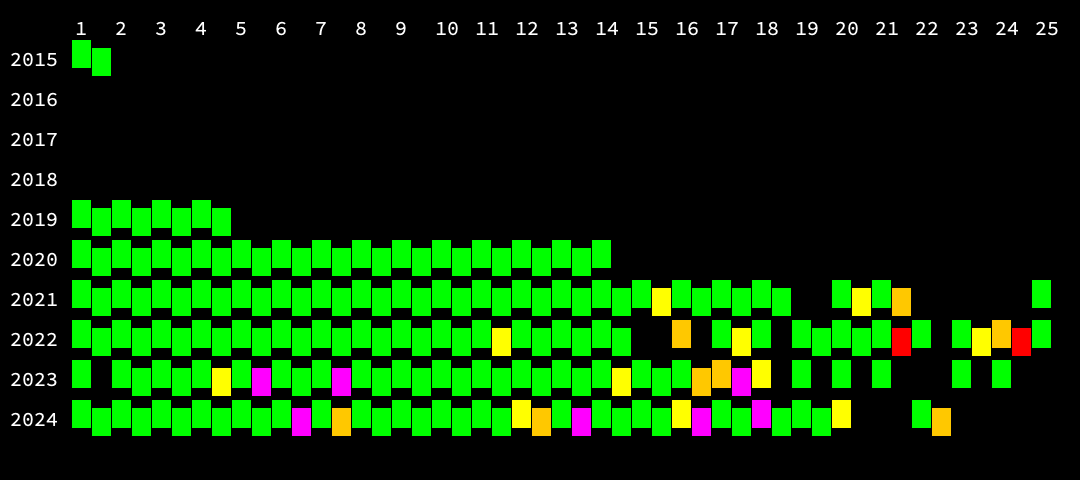
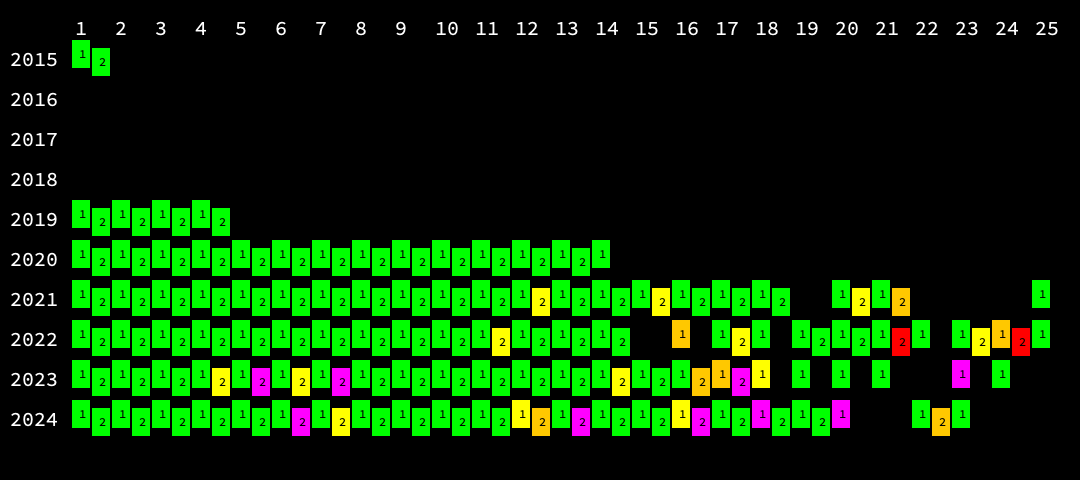
More updates on timing and charts.

diff --git a/src/main/java/com/simongarton/adventofcode/AdventOfCode.java b/src/main/java/com/simongarton/adventofcode/AdventOfCode.java
@@ -236,7 +236,7 @@ public class AdventOfCode {
 //        this.challenges.add(new Year2022Day21()); // slow part 2 18 seconds
         this.challenges.add(new Year2022Day22());
         this.challenges.add(new Year2022Day23());
-        this.challenges.add(new Year2022Day24()); // slow part 2 15 seconds
+//        this.challenges.add(new Year2022Day24()); // slow part 2 15 seconds
         this.challenges.add(new Year2022Day25());
     }
 
@@ -245,9 +245,9 @@ public class AdventOfCode {
         this.challenges.add(new Year2023Day2());
         this.challenges.add(new Year2023Day3());
         this.challenges.add(new Year2023Day4());
-        this.challenges.add(new Year2023Day5()); // slow part 2 63 seconds
+//        this.challenges.add(new Year2023Day5()); // slow part 2 63 seconds
         this.challenges.add(new Year2023Day6());
-        this.challenges.add(new Year2023Day7()); // slow part 2 29 seconds
+//        this.challenges.add(new Year2023Day7()); // slow part 2 29 seconds
         this.challenges.add(new Year2023Day8());
         this.challenges.add(new Year2023Day9());
         this.challenges.add(new Year2023Day10());
@@ -257,7 +257,7 @@ public class AdventOfCode {
         this.challenges.add(new Year2023Day14());
         this.challenges.add(new Year2023Day15());
         this.challenges.add(new Year2023Day16());
-        this.challenges.add(new Year2023Day17()); // slow part 2 26 seconds
+//        this.challenges.add(new Year2023Day17()); // slow part 2 26 seconds
         this.challenges.add(new Year2023Day18());
         this.challenges.add(new Year2023Day19());
         this.challenges.add(new Year2023Day20());
@@ -274,23 +274,24 @@ public class AdventOfCode {
         this.challenges.add(new Year2024Day3());
         this.challenges.add(new Year2024Day4());
         this.challenges.add(new Year2024Day5());
-        this.challenges.add(new Year2024Day6()); // slow
+//        this.challenges.add(new Year2024Day6()); // slow
         this.challenges.add(new Year2024Day7());
         this.challenges.add(new Year2024Day8());
         this.challenges.add(new Year2024Day9());
         this.challenges.add(new Year2024Day10());
         this.challenges.add(new Year2024Day11());
         this.challenges.add(new Year2024Day12());
-        this.challenges.add(new Year2024Day13()); // slow part 2 64 seconds
+//        this.challenges.add(new Year2024Day13()); // slow part 2 64 seconds
         this.challenges.add(new Year2024Day14());
         this.challenges.add(new Year2024Day15());
-        this.challenges.add(new Year2024Day16()); // slow part 2 81 seconds
+//        this.challenges.add(new Year2024Day16()); // slow part 2 81 seconds
         this.challenges.add(new Year2024Day17());
-        this.challenges.add(new Year2024Day18()); // slow part 1 (!) 180 seconds
+//        this.challenges.add(new Year2024Day18()); // slow part 1 (!) 180 seconds
         this.challenges.add(new Year2024Day19());
-        this.challenges.add(new Year2024Day20()); // slow didn't finish
+//        this.challenges.add(new Year2024Day20()); // slow didn't finish
         this.challenges.add(new Year2024Day21());
         this.challenges.add(new Year2024Day22());
+        this.challenges.add(new Year2024Day23());
     }
 
     private BufferedImage getBufferedImage() {
@@ -373,9 +374,15 @@ public class AdventOfCode {
 
     private void paintSpeedOutcomes(final Graphics2D graphics2D) {
 
-        final int halfXScale = (XSCALE / 2) - 1;
+        final int quarterXScale = (XSCALE / 4) - 1;
+        final int halfXScale = (XSCALE / 2);
         final int quarterYScale = (YSCALE / 4) - 2;
+        final int halfYScale = (YSCALE / 2) - 2;
         final int threeQuarterYScale = (3 * YSCALE / 4) - 2;
+
+        final String fontName = "Source Code Pro";
+
+        final Font textFont = new Font(fontName, Font.PLAIN, 12);
 
         for (int year = this.startYear; year <= this.endYear; year++) {
             for (int day = 1; day <= 25; day++) {
@@ -385,17 +392,25 @@ public class AdventOfCode {
 
                 long time = this.getTimeForDay(year, day, 1);
                 if (time != -1) {
-                    if (this.complete.get(year).get(day).part1) {
+                    if (this.getOutcomeForDay(year, day) >= 1) {
                         graphics2D.setPaint(this.getColorForTime(time));
-                        graphics2D.fillRect(x, y, halfXScale, threeQuarterYScale);
+                        graphics2D.fillRect(x, y, halfXScale - 2, threeQuarterYScale);
+
+                        graphics2D.setFont(textFont);
+                        graphics2D.setPaint(Color.BLACK);
+                        graphics2D.drawString("1", x + quarterXScale - 2, y + halfYScale);
                     }
                 }
 
                 time = this.getTimeForDay(year, day, 2);
                 if (time != -1) {
-                    if (this.complete.get(year).get(day).part2) {
+                    if (this.getOutcomeForDay(year, day) == 2) {
                         graphics2D.setPaint(this.getColorForTime(time));
-                        graphics2D.fillRect(x + XSCALE / 2, y + quarterYScale, halfXScale, threeQuarterYScale);
+                        graphics2D.fillRect(x + halfXScale, y + quarterYScale, halfXScale - 2, threeQuarterYScale);
+
+                        graphics2D.setFont(textFont);
+                        graphics2D.setPaint(Color.BLACK);
+                        graphics2D.drawString("2", x + halfXScale + quarterXScale - 2, y + halfYScale + quarterYScale);
                     }
                 }
             }
@@ -464,8 +479,33 @@ public class AdventOfCode {
     private Optional<Integer> getShortcutForDay(final int year, final int day, final int part, final int index) {
 
         final Map<String, List<Integer>> shorts = new HashMap<>();
+
+        // these are real
         shorts.put("2022-21.1", List.of(2, 64));
         shorts.put("2022-21.2", List.of(2, 18790));
+        shorts.put("2022-24.1", List.of(2, 5260));
+        shorts.put("2022-24.2", List.of(2, 15193));
+        shorts.put("2023-5.1", List.of(2, 4));
+        shorts.put("2023-5.2", List.of(2, 56274));
+        shorts.put("2023-7.1", List.of(2, 13));
+        shorts.put("2023-7.2", List.of(2, 31696));
+        shorts.put("2023-17.1", List.of(2, 9380));
+        shorts.put("2023-17.2", List.of(2, 32292));
+        shorts.put("2024-6.1", List.of(2, 37));
+        shorts.put("2024-6.2", List.of(2, 86172));
+        shorts.put("2024-13.1", List.of(2, 14));
+        shorts.put("2024-13.2", List.of(2, 62522));
+        shorts.put("2024-16.1", List.of(2, 1136));
+        shorts.put("2024-16.2", List.of(2, 73186));
+        shorts.put("2024-18.1", List.of(2, 169065));
+        shorts.put("2024-18.2", List.of(2, 9));
+
+        // these I don't have timings for yet
+        shorts.put("2023-23.1", List.of(1, Integer.MAX_VALUE));
+        shorts.put("2023-23.2", List.of(1, Integer.MAX_VALUE));
+        shorts.put("2024-20.1", List.of(1, Integer.MAX_VALUE)); // only got part 1
+        shorts.put("2024-20.2", List.of(1, Integer.MAX_VALUE)); // only got part 1
+
 
         final String key = year + "-" + day + "." + part;
         if (!shorts.containsKey(key)) {

diff --git a/progress.md b/progress.md
@@ -9,8 +9,8 @@
 2020 : ✓✓✓✓✓✓✓✓✓✓✓✓✓.  
 2021 : ✓✓✓✓✓✓✓✓✓✓✓✓✓✓✓✓✓✓✓✓.  
 2022 : ✓✓✓✓✓✓✓✓✓✓✓✓✓✓.✓.✓✓✓.✓✓.  
-2023 : .✓✓✓✓✓✓✓✓✓✓✓✓✓✓✓✓......  
-2024 : ✓✓✓✓✓✓✓✓✓✓✓✓✓✓✓✓✓✓✓.✓  
+2023 : ✓✓✓✓✓✓✓✓✓✓✓✓✓✓✓✓✓......  
+2024 : ✓✓✓✓✓✓✓✓✓✓✓✓✓✓✓✓✓✓✓.✓.  
        1234567890123456789012345  
                 1111111111222222  
 ```
